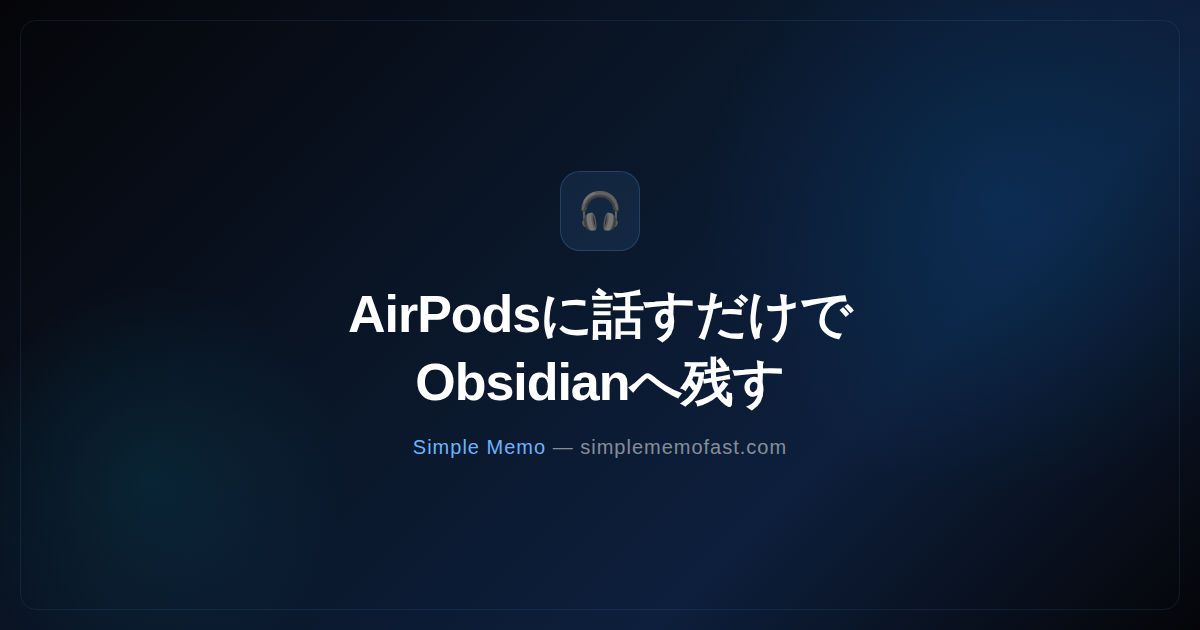
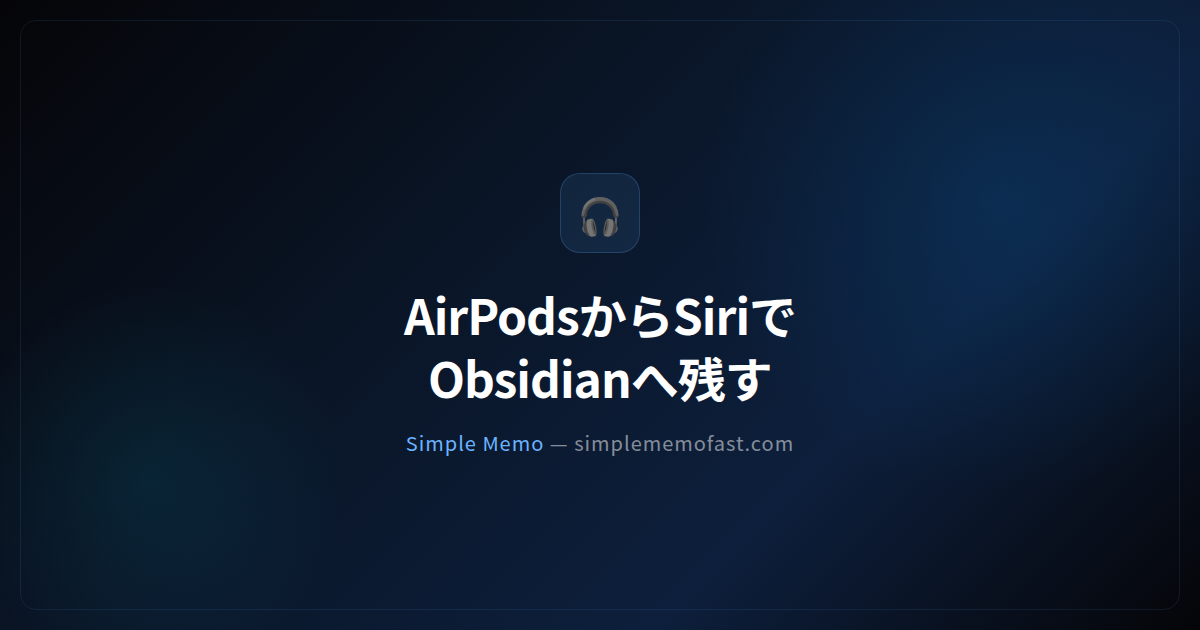
Merge validated PR #1823
Source PR: https://github.com/simplememofast/simplememo/pull/1823
Validated head: 1115b5f22ae24f1f7da040a76402fbab428657f7

diff --git a/siri/index.html b/siri/index.html
@@ -23,12 +23,12 @@
       });
     })();
   </script>
-  <title>AirPodsで音声メモ — スマホを触らずSiriでObsidianへ送る | Obsidian連携シンプルメモ</title>
+  <title>AirPodsで音声メモ — アプリを開かずSiriでObsidianへ送る | Obsidian連携シンプルメモ</title>
   <meta name="description" content="AirPodsからSiriにメモを渡す設定と条件。送信先の認証、保管庫フォルダ、ロック中の実行を確認し、メール受信・Obsidian保存・他端末同期を別々に確かめます。アプリを開く音声ショートカットとの違い、オフライン待機の条件も説明します。">
   <meta name="theme-color" content="#070b14">
 
   <!-- OGP -->
-  <meta property="og:title" content="AirPodsで音声メモ — スマホを触らずSiriでObsidianへ送る | Obsidian連携シンプルメモ">
+  <meta property="og:title" content="AirPodsで音声メモ — アプリを開かずSiriでObsidianへ送る | Obsidian連携シンプルメモ">
   <meta property="og:description" content="AirPodsからSiriにメモを渡す設定と条件。送信先の認証、保管庫フォルダ、ロック中の実行を確認し、メール受信・Obsidian保存・他端末同期を別々に確かめます。アプリを開く音声ショートカットとの違い、オフライン待機の条件も説明します。">
   <meta property="og:type" content="article">
   <meta property="article:published_time" content="2026-08-05T00:00:00+09:00">
@@ -43,7 +43,7 @@
   <!-- Twitter Card -->
   <meta name="twitter:card" content="summary_large_image">
   <meta name="twitter:site" content="@simplememofast">
-  <meta name="twitter:title" content="AirPodsで音声メモ — スマホを触らずSiriでObsidianへ送る | Obsidian連携シンプルメモ">
+  <meta name="twitter:title" content="AirPodsで音声メモ — アプリを開かずSiriでObsidianへ送る | Obsidian連携シンプルメモ">
   <meta name="twitter:description" content="AirPodsからSiriにメモを渡す設定と条件。送信先の認証、保管庫フォルダ、ロック中の実行を確認し、メール受信・Obsidian保存・他端末同期を別々に確かめます。アプリを開く音声ショートカットとの違い、オフライン待機の条件も説明します。">
   <meta name="twitter:image" content="https://simplememofast.com/assets/img/app-icon-256.png">
   <link rel="preconnect" href="https://analytics.ahrefs.com">
@@ -63,13 +63,13 @@
   <script type="application/ld+json">{"@context":"https://schema.org","@type":"BreadcrumbList","itemListElement":[{"@type":"ListItem","position":1,"name":"ホーム","item":"https://simplememofast.com/"},{"@type":"ListItem","position":2,"name":"Siriで音声メモ","item":"https://simplememofast.com/siri/"}]}</script>
 
   <!-- JSON-LD: Article -->
-  <script type="application/ld+json">{"@context":"https://schema.org","@type":"Article","@id":"https://simplememofast.com/siri/#article","inLanguage":"ja","headline":"AirPodsで音声メモ — スマホを触らずSiriでObsidianへ送る","description":"AirPodsからSiriにメモを渡す設定と条件。送信先の認証、保管庫フォルダ、ロック中の実行を確認し、メール受信・Obsidian保存・他端末同期を別々に確かめます。アプリを開く音声ショートカットとの違い、オフライン待機の条件も説明します。","url":"https://simplememofast.com/siri/","datePublished":"2026-08-05","dateModified":"2026-09-30","author":{"@type":"Person","@id":"https://simplememofast.com/about/#person","name":"AI ATAKA","url":"https://simplememofast.com/about/"},"publisher":{"@type":"Organization","name":"Obsidian連携シンプルメモ","@id":"https://simplememofast.com/#organization","url":"https://simplememofast.com/","logo":{"@type":"ImageObject","url":"https://simplememofast.com/assets/img/app-icon-256.png","width":256,"height":256},"alternateName":["Captio式シンプルメモ","シンプルメモ","SimpleMemoFast","Simple Memo","Simple Memo - for Obsidian"]},"image":"https://simplememofast.com/assets/img/app-icon-256.png","mainEntityOfPage":{"@type":"WebPage","@id":"https://simplememofast.com/siri/"}}</script>
+  <script type="application/ld+json">{"@context":"https://schema.org","@type":"Article","@id":"https://simplememofast.com/siri/#article","inLanguage":"ja","headline":"AirPodsで音声メモ — アプリを開かずSiriでObsidianへ送る","description":"AirPodsからSiriにメモを渡す設定と条件。送信先の認証、保管庫フォルダ、ロック中の実行を確認し、メール受信・Obsidian保存・他端末同期を別々に確かめます。アプリを開く音声ショートカットとの違い、オフライン待機の条件も説明します。","url":"https://simplememofast.com/siri/","datePublished":"2026-08-05","dateModified":"2026-10-01","author":{"@type":"Person","@id":"https://simplememofast.com/about/#person","name":"AI ATAKA","url":"https://simplememofast.com/about/"},"publisher":{"@type":"Organization","name":"Obsidian連携シンプルメモ","@id":"https://simplememofast.com/#organization","url":"https://simplememofast.com/","logo":{"@type":"ImageObject","url":"https://simplememofast.com/assets/img/app-icon-256.png","width":256,"height":256},"alternateName":["Captio式シンプルメモ","シンプルメモ","SimpleMemoFast","Simple Memo","Simple Memo - for Obsidian"]},"image":"https://simplememofast.com/assets/img/app-icon-256.png","mainEntityOfPage":{"@type":"WebPage","@id":"https://simplememofast.com/siri/"}}</script>
 
   <!-- JSON-LD: FAQPage -->
   <script type="application/ld+json">{"@context":"https://schema.org","@type":"FAQPage","@id":"https://simplememofast.com/siri/#faq","inLanguage":"ja","mainEntity":[{"@type":"Question","name":"AirPodsのステムを長押ししてもSiriが出ません","acceptedAnswer":{"@type":"Answer","text":"AirPods Pro（第1・第2世代）とAirPods 4（ノイズキャンセリング搭載）は、ステム長押しの初期設定が 「ノイズコントロールの切り替え」 で、Siriは起動しません。長押しすると音は鳴るため、失敗したことに気づきにくいのが厄介な点です。 設定 → Bluetooth → お使いのAirPodsの ⓘ →「長押ししたときの操作」→ Siri に変更してください（左右それぞれに設定があります）。設定を変えずに使いたい場合は「Hey Siri、シンプルメモで残す」と話しかけ、お使いの端末で本文の入力まで進むか確かめてください。"}},{"@type":"Question","name":"Siriが反応しません／「そのためのアプリが見当たりません」と言われます","acceptedAnswer":{"@type":"Answer","text":"ショートカットAppを開き、「シンプルメモ」のショートカット設定で Siriがオン になっているか確認してください（オフだと全フレーズが認識されません）。オンにしたら「Hey Siri、シンプルメモで残す」と話しかけてください。言い回しは 「〜で残す」 から試してください。インストール直後は登録に数分かかることがあるため、アプリを一度起動して少し待ってから試してください。"}},{"@type":"Question","name":"「シンプルメモにメモ」と言ったら違う動きをしました","acceptedAnswer":{"@type":"Answer","text":"「シンプルメモで残す」を試し、Siriが本文を聞く送信操作へ進むか確認してください。別のアプリや操作が選ばれたら、Siriの言語設定とショートカットの登録を確認します。アプリ名だけの発話も、アプリ起動になるか登録された送信操作になるかはSiriの案内を確かめてください。現行版のすべての端末で同じ解釈になるとは限りません。"}},{"@type":"Question","name":"アプリを開かずに、どうやって送信されるのですか？","acceptedAnswer":{"@type":"Answer","text":"Siriの「で残す」はアプリの送信処理へ本文を渡す入口です。送信先メールの認証など初期設定が必要です。通常モードのメール送信とObsidianへの追記は別の経路で、Siriの「送信しました」だけでは保管庫保存を確認できません。選んだフォルダへの直接書き込みが成功することと、別端末へ同期することも分けて確認してください。「声でメモ」はアプリを開く別の入口です。"}},{"@type":"Question","name":"オフライン（圏外）でSiriに話したらどうなりますか？","acceptedAnswer":{"@type":"Answer","text":"Siriから本文がアプリへ渡され、通常モードのメールが待機になった場合は、暗号化したOutboxへ保存して通信復帰後に再送を試みます。Siriの呼び出しや音声認識自体が圏外でも使えるとは限りません。保管庫への直接書き込みには、端末にある対象フォルダと書き込み権限が必要です。メール待機・保管庫保存・他端末同期を別に確認してください。"}},{"@type":"Question","name":"AirPodsだけで完結しますか？画面を見る必要は？","acceptedAnswer":{"@type":"Answer","text":"必要な設定が整った環境では、Siriとの音声のやり取りからメモを渡せます。ロック中のSiri利用設定、選んだショートカット、端末の状態によって、解除や画面操作が必要になる場合があります。アプリを開く「声でメモ」と、本文を送信処理へ渡す「で残す」は別の入口です。すべての端末状態で操作不要と保証せず、最初のメモで受信箱と保管庫の本文を確認してください。"}},{"@type":"Question","name":"「高音質録音」とは何ですか？","acceptedAnswer":{"@type":"Answer","text":"「高音質録音」はアプリ内の音声入力でAirPodsのマイクを使うための設定です。対応するiOS・AirPodsが必要で、設定 → 詳細設定で切り替えます。Siriから本文を渡す送信ショートカットとは別の機能です。ここではマイク切替による開始時間の差を実測していません。"}},{"@type":"Question","name":"Siri送信は無料プランでも使えますか？","acceptedAnswer":{"@type":"Answer","text":"使えます。Siri経由の送信もアプリ内からの送信と同じ扱いで、無料プランの1日の送信枠を共有します。枠を使い切った場合はSiriが上限到達を案内します。音声か画面かは端末の状態によります。"}}]}</script>
 
   <!-- JSON-LD: WebPage with Speakable -->
-  <script type="application/ld+json">{"@context":"https://schema.org","@type":"WebPage","@id":"https://simplememofast.com/siri/#webpage","inLanguage":"ja","name":"AirPodsで音声メモ — スマホを触らずSiriでObsidianへ送る | Obsidian連携シンプルメモ","url":"https://simplememofast.com/siri/","isPartOf":{"@id":"https://simplememofast.com/#website"}}</script>
+  <script type="application/ld+json">{"@context":"https://schema.org","@type":"WebPage","@id":"https://simplememofast.com/siri/#webpage","inLanguage":"ja","name":"AirPodsで音声メモ — アプリを開かずSiriでObsidianへ送る | Obsidian連携シンプルメモ","url":"https://simplememofast.com/siri/","isPartOf":{"@id":"https://simplememofast.com/#website"}}</script>
   <link rel="stylesheet" href="/assets/css/style.min.css?v=aa4747a0f6">
   <link rel="preload" href="/assets/fonts/NotoSansJP-Regular-subset.woff2?v=a4c50a515e" as="font" type="font/woff2" crossorigin>
   <link rel="preload" href="/assets/fonts/NotoSansJP-Bold-subset.woff2?v=7c9688959a" as="font" type="font/woff2" crossorigin>

diff --git a/hands-free/index.html b/hands-free/index.html
@@ -23,12 +23,12 @@
       });
     })();
   </script>
-  <title>ハンズフリー音声メモ — 移動中も開くだけで自動録音・圏外でも端末に残る | Obsidian連携シンプルメモ</title>
+  <title>ハンズフリー音声メモ — 移動中も、設定すれば開くだけで自動録音・圏外でも端末に残る | Obsidian連携シンプルメモ</title>
   <meta name="description" content="設定すれば、開くだけで音声入力が自動起動。高精度なオンデバイス音声で話すだけ、下書きは端末内に自動保存、Obsidianにはローカル保存で、圏外でも端末に残ります。通勤・サイクリング・ドライブの“手がふさがる移動中”に最適なハンズフリー音声メモ（安全運用の注意つき）。">
   <meta name="theme-color" content="#070b14">
 
   <!-- OGP -->
-  <meta property="og:title" content="ハンズフリー音声メモ — 移動中も開くだけで自動録音・圏外でも端末に残る | Obsidian連携シンプルメモ">
+  <meta property="og:title" content="ハンズフリー音声メモ — 移動中も、設定すれば開くだけで自動録音・圏外でも端末に残る | Obsidian連携シンプルメモ">
   <meta property="og:description" content="設定しておけば、開くだけで自動録音、高精度オンデバイス音声、下書き自動保存、Obsidianローカル保存で圏外でも端末に残る。手がふさがる移動中のハンズフリー音声メモ。">
   <meta property="og:type" content="article">
   <meta property="article:published_time" content="2026-06-04T00:00:00+09:00">
@@ -43,7 +43,7 @@
   <!-- Twitter Card -->
   <meta name="twitter:card" content="summary_large_image">
   <meta name="twitter:site" content="@simplememofast">
-  <meta name="twitter:title" content="ハンズフリー音声メモ — 開くだけで自動録音・圏外でも端末に残る | Obsidian連携シンプルメモ">
+  <meta name="twitter:title" content="ハンズフリー音声メモ — 設定すれば開くだけで自動録音・圏外でも端末に残る | Obsidian連携シンプルメモ">
   <meta name="twitter:description" content="設定しておけば、開くだけで自動録音、高精度オンデバイス音声、下書き自動保存、Obsidianローカル保存で圏外でも端末に残る。移動中のハンズフリー音声メモ。">
   <meta name="twitter:image" content="https://simplememofast.com/assets/img/og/hands-free.png">
   <link rel="preconnect" href="https://analytics.ahrefs.com">
@@ -72,14 +72,14 @@
   </script>
 
   <!-- JSON-LD: Article -->
-  <script type="application/ld+json">{"@context":"https://schema.org","@type":"Article","@id":"https://simplememofast.com/hands-free/#article","inLanguage":"ja","headline":"ハンズフリー音声メモ — 移動中も開くだけで自動録音・圏外でも端末に残る","description":"設定すれば、開くだけで音声入力が自動起動。高精度なオンデバイス音声で話すだけ、下書きは端末内に自動保存、Obsidianにはローカル保存で、圏外でも端末に残ります。通勤・サイクリング・ドライブの移動中に最適なハンズフリー音声メモ。","url":"https://simplememofast.com/hands-free/","datePublished":"2026-06-04","dateModified":"2026-10-01","author":{"@type":"Person","@id":"https://simplememofast.com/about/#person","name":"AI ATAKA","url":"https://simplememofast.com/about/"},"publisher":{"@type":"Organization","name":"Obsidian連携シンプルメモ","@id":"https://simplememofast.com/#organization","url":"https://simplememofast.com/","logo":{"@type":"ImageObject","url":"https://simplememofast.com/assets/img/app-icon-256.png","width":256,"height":256},"alternateName":["Captio式シンプルメモ","シンプルメモ","SimpleMemoFast","Simple Memo","Simple Memo - for Obsidian"]},"image":"https://simplememofast.com/assets/img/og/hands-free.png","mainEntityOfPage":{"@type":"WebPage","@id":"https://simplememofast.com/hands-free/"}}</script>
+  <script type="application/ld+json">{"@context":"https://schema.org","@type":"Article","@id":"https://simplememofast.com/hands-free/#article","inLanguage":"ja","headline":"ハンズフリー音声メモ — 移動中も、設定すれば開くだけで自動録音・圏外でも端末に残る","description":"設定すれば、開くだけで音声入力が自動起動。高精度なオンデバイス音声で話すだけ、下書きは端末内に自動保存、Obsidianにはローカル保存で、圏外でも端末に残ります。通勤・サイクリング・ドライブの移動中に最適なハンズフリー音声メモ。","url":"https://simplememofast.com/hands-free/","datePublished":"2026-06-04","dateModified":"2026-10-01","author":{"@type":"Person","@id":"https://simplememofast.com/about/#person","name":"AI ATAKA","url":"https://simplememofast.com/about/"},"publisher":{"@type":"Organization","name":"Obsidian連携シンプルメモ","@id":"https://simplememofast.com/#organization","url":"https://simplememofast.com/","logo":{"@type":"ImageObject","url":"https://simplememofast.com/assets/img/app-icon-256.png","width":256,"height":256},"alternateName":["Captio式シンプルメモ","シンプルメモ","SimpleMemoFast","Simple Memo","Simple Memo - for Obsidian"]},"image":"https://simplememofast.com/assets/img/og/hands-free.png","mainEntityOfPage":{"@type":"WebPage","@id":"https://simplememofast.com/hands-free/"}}</script>
 
   <!-- JSON-LD: FAQPage -->
   <script type="application/ld+json">{"@context":"https://schema.org","@type":"FAQPage","@id":"https://simplememofast.com/hands-free/#faq","inLanguage":"ja","mainEntity":[{"@type":"Question","name":"運転中や自転車の走行中に使ってもいいですか？","acceptedAnswer":{"@type":"Answer","text":"運転中・走行中にスマホを手に持つ・通話する・画面を注視する行為は日本の道路交通法で禁止されており危険です（自転車も2024年11月から「ながらスマホ」が罰則対象）。アプリで録音して送るには、開くときと送るときに画面の操作が要ります。安全のため、①安全な場所に停車してから、②またはハンズフリーでSiriなど声だけの操作に限る（画面を見ない・操作しない。解除や画面操作を求められたら停車してから）、③同乗者が操作、を必ず守ってください。前方への注意が最優先です。"}},{"@type":"Question","name":"電波がない場所（トンネル・山・地下）でも使えますか？","acceptedAnswer":{"@type":"Answer","text":"使えます。圏外でも、話した内容は(1)端末内の下書きとして自動保存されます。送信すると、(2)メールはオフラインキュー（Outbox）に暗号化して貯まり復帰時に自動送信、(3)Obsidian連携をフォルダ直書きにしていればその場でローカルのノートに追記されます。音声認識も初回に言語モデルを取得しておけばオフラインで動作します。"}},{"@type":"Question","name":"開くだけで録音が始まるのはどう設定しますか？","acceptedAnswer":{"@type":"Answer","text":"設定の詳細設定にある「起動時に音声入力を自動オン」をオンにします。以降はアプリを開くと録音が始まるので、マイクを探してタップする必要はありません（iOS 26以降の対応端末。開始の表示を確かめてから話します）。"}},{"@type":"Question","name":"音声の精度は？追加料金はかかりますか？","acceptedAnswer":{"@type":"Answer","text":"Appleの最新オンデバイス音声認識（iOS 26）を使うため精度が高く、文字起こしは端末内で完結します。音声もテキストも外部に送らず、従量課金の外部APIも使わないため追加料金はかかりません。"}},{"@type":"Question","name":"言い間違えたり途中で中断しても大丈夫ですか？","acceptedAnswer":{"@type":"Answer","text":"大丈夫です。入力中の内容は話すそばから端末内にAES-GCM暗号化で自動保存されるため、アプリが閉じても・落ちても、次に開けば続きから編集できます。送信すると下書きは破棄されます。"}}]}</script>
 
   <!-- JSON-LD: WebPage with Speakable -->
   <script type="application/ld+json">
-  {"@context":"https://schema.org","@type":"WebPage","@id":"https://simplememofast.com/hands-free/#webpage","inLanguage":"ja","name":"ハンズフリー音声メモ — 移動中も開くだけで自動録音・圏外でも端末に残る | Obsidian連携シンプルメモ","url":"https://simplememofast.com/hands-free/","isPartOf":{"@id":"https://simplememofast.com/#website"}}
+  {"@context":"https://schema.org","@type":"WebPage","@id":"https://simplememofast.com/hands-free/#webpage","inLanguage":"ja","name":"ハンズフリー音声メモ — 移動中も、設定すれば開くだけで自動録音・圏外でも端末に残る | Obsidian連携シンプルメモ","url":"https://simplememofast.com/hands-free/","isPartOf":{"@id":"https://simplememofast.com/#website"}}
   </script>
   <link rel="stylesheet" href="/assets/css/style.min.css?v=aa4747a0f6">
   <link rel="preload" href="/assets/fonts/NotoSansJP-Regular-subset.woff2?v=a4c50a515e" as="font" type="font/woff2" crossorigin>
@@ -495,7 +495,7 @@
 
         </h2>
         <div class="internal-links">
-          <a href="/siri/"><span lang="ja">AirPodsから、スマホを触らず送る</span></a>
+          <a href="/siri/"><span lang="ja">AirPodsから、アプリを開かず送る</span></a>
           <a href="/fastest-voice-memo/"><span lang="ja">アクションボタンで音声メモ（おすすめの使い方）</span></a>
           <a href="/voice-input/"><span lang="ja">音声入力（音声自動入力）</span></a>
           <a href="/obsidian/"><span lang="ja">Obsidian連携</span></a>

diff --git a/obsidian/airpods/index.html b/obsidian/airpods/index.html
@@ -23,12 +23,12 @@
       });
     })();
   </script>
-  <title>AirPodsに話すだけでObsidianへ残す — ハンズフリー実践ガイド【2026】 | Obsidian連携シンプルメモ</title>
+  <title>AirPodsからSiriでObsidianへ残す — ハンズフリー実践ガイド【2026】 | Obsidian連携シンプルメモ</title>
   <meta name="description" content="AirPodsから「Hey Siri、シンプルメモで残す」と話しかけ、聞き返されたら本文を答えると、メールとObsidianのデイリーノートへメモを渡せます。設定3ステップ・実機スクリーンショット・AirPods Pro/4のステム設定・ロック中の条件など、つまずきやすい点までまとめた実践ガイドです。">
   <meta name="theme-color" content="#070b14">
 
   <!-- OGP -->
-  <meta property="og:title" content="AirPodsに話すだけでObsidianへ残す — ハンズフリー実践ガイド【2026】 | Obsidian連携シンプルメモ">
+  <meta property="og:title" content="AirPodsからSiriでObsidianへ残す — ハンズフリー実践ガイド【2026】 | Obsidian連携シンプルメモ">
   <meta property="og:description" content="AirPodsから「シンプルメモで残す」と話しかけて本文を答えると、メールとObsidianのデイリーノートへ。設定とロック中の条件を実機画面つきで説明する実践ガイド。">
   <meta property="og:type" content="article">
   <meta property="article:published_time" content="2026-08-20T00:00:00+09:00">
@@ -42,7 +42,7 @@
   <!-- Twitter Card -->
   <meta name="twitter:card" content="summary_large_image">
   <meta name="twitter:site" content="@simplememofast">
-  <meta name="twitter:title" content="AirPodsに話すだけでObsidianへ残す — ハンズフリー実践ガイド【2026】">
+  <meta name="twitter:title" content="AirPodsからSiriでObsidianへ残す — ハンズフリー実践ガイド【2026】">
   <meta name="twitter:description" content="AirPodsから「シンプルメモで残す」と話しかけて本文を答えると、メールとObsidianのデイリーノートへ。設定とロック中の条件つき。">
   <meta name="twitter:image" content="https://simplememofast.com/assets/img/og/obsidian-airpods.png">
   <link rel="preconnect" href="https://analytics.ahrefs.com">
@@ -69,11 +69,11 @@
   </script>
 
   <!-- JSON-LD: Article -->
-  <script type="application/ld+json">{"@context":"https://schema.org","@type":"Article","@id":"https://simplememofast.com/obsidian/airpods/#article","inLanguage":"ja","headline":"AirPodsに話すだけでObsidianへ残す — ハンズフリー実践ガイド","description":"AirPodsから「Hey Siri、シンプルメモで残す」と話しかけ、聞き返されたら本文を答えて、メモをメールとObsidianのデイリーノートへ渡す手順を、実機スクリーンショットと制約（ステム長押しの初期設定・合言葉の言い回し・2ターンの会話仕様・ロック中の条件）まで含めて解説する。","url":"https://simplememofast.com/obsidian/airpods/","datePublished":"2026-08-20","dateModified":"2026-09-30","author":{"@type":"Person","@id":"https://simplememofast.com/about/#person","name":"AI ATAKA","url":"https://simplememofast.com/about/"},"publisher":{"@type":"Organization","name":"Obsidian連携シンプルメモ","@id":"https://simplememofast.com/#organization","url":"https://simplememofast.com/","logo":{"@type":"ImageObject","url":"https://simplememofast.com/assets/img/app-icon-256.png","width":256,"height":256},"alternateName":["Captio式シンプルメモ","シンプルメモ","SimpleMemoFast","Simple Memo","Simple Memo - for Obsidian"]},"image":"https://simplememofast.com/assets/img/og/obsidian-airpods.png","mainEntityOfPage":{"@type":"WebPage","@id":"https://simplememofast.com/obsidian/airpods/"}}</script>
+  <script type="application/ld+json">{"@context":"https://schema.org","@type":"Article","@id":"https://simplememofast.com/obsidian/airpods/#article","inLanguage":"ja","headline":"AirPodsからSiriでObsidianへ残す — ハンズフリー実践ガイド","description":"AirPodsから「Hey Siri、シンプルメモで残す」と話しかけ、聞き返されたら本文を答えて、メモをメールとObsidianのデイリーノートへ渡す手順を、実機スクリーンショットと制約（ステム長押しの初期設定・合言葉の言い回し・2ターンの会話仕様・ロック中の条件）まで含めて解説する。","url":"https://simplememofast.com/obsidian/airpods/","datePublished":"2026-08-20","dateModified":"2026-10-01","author":{"@type":"Person","@id":"https://simplememofast.com/about/#person","name":"AI ATAKA","url":"https://simplememofast.com/about/"},"publisher":{"@type":"Organization","name":"Obsidian連携シンプルメモ","@id":"https://simplememofast.com/#organization","url":"https://simplememofast.com/","logo":{"@type":"ImageObject","url":"https://simplememofast.com/assets/img/app-icon-256.png","width":256,"height":256},"alternateName":["Captio式シンプルメモ","シンプルメモ","SimpleMemoFast","Simple Memo","Simple Memo - for Obsidian"]},"image":"https://simplememofast.com/assets/img/og/obsidian-airpods.png","mainEntityOfPage":{"@type":"WebPage","@id":"https://simplememofast.com/obsidian/airpods/"}}</script>
 
   <!-- JSON-LD: WebPage with Speakable -->
   <script type="application/ld+json">
-  {"@context":"https://schema.org","@type":"WebPage","@id":"https://simplememofast.com/obsidian/airpods/#webpage","inLanguage":"ja","name":"AirPodsに話すだけでObsidianへ残す — ハンズフリー実践ガイド【2026】 | Obsidian連携シンプルメモ","url":"https://simplememofast.com/obsidian/airpods/","isPartOf":{"@id":"https://simplememofast.com/#website"}}
+  {"@context":"https://schema.org","@type":"WebPage","@id":"https://simplememofast.com/obsidian/airpods/#webpage","inLanguage":"ja","name":"AirPodsからSiriでObsidianへ残す — ハンズフリー実践ガイド【2026】 | Obsidian連携シンプルメモ","url":"https://simplememofast.com/obsidian/airpods/","isPartOf":{"@id":"https://simplememofast.com/#website"}}
   </script>
   <link rel="stylesheet" href="/assets/css/style.min.css?v=aa4747a0f6">
   <link rel="preload" href="/assets/fonts/NotoSansJP-Regular-subset.woff2?v=a4c50a515e" as="font" type="font/woff2" crossorigin>
@@ -178,7 +178,7 @@
       <!-- Hero -->
       <div class="lp-hero">
         <div class="lp-hero__label">AirPods × Obsidian — 実践</div>
-        <h1 class="lp-hero__title">AirPodsに話すだけで、<br>Obsidianへ残す</h1>
+        <h1 class="lp-hero__title">AirPodsからSiriで、<br>Obsidianへ残す</h1>
         <p class="lp-hero__sub">
           歩いているとき、家事の途中、iPhoneはポケットやカバンの中——その状態のまま、AirPodsに<strong>「Hey Siri、シンプルメモで残す」</strong>と話しかけ、聞き返されたら本文を答えると、話した内容をメールと<strong>Obsidianのデイリーノート</strong>へ渡せます。ロック中の設定や端末の状態によっては、解除や画面操作を求められることがあります。このページは、その状態を作るまでの設定と、実際につまずきやすい点（ステム長押しの初期設定・合言葉の言い回し）を、実機のスクリーンショットで説明する実践ガイドです。
         </p>

diff --git a/en/hands-free/index.html b/en/hands-free/index.html
@@ -24,11 +24,11 @@
     });
   })();
 </script>
-<title>On the move — just open and speak.</title>
+<title>On the move — with auto-start on, just open and speak.</title>
 <meta content="With auto-start on, opening the app starts recording. High-accuracy on-device voice, drafts auto-saved on device, and local Obsidian save that survives with no signal." name="description"/>
 <meta content="#070b14" name="theme-color"/>
 <!-- OGP -->
-<meta content="On the move — just open and speak." property="og:title"/>
+<meta content="On the move — with auto-start on, just open and speak." property="og:title"/>
 <meta content="With auto-start on, opening the app starts recording. High-accuracy on-device voice, drafts auto-saved on device, and local Obsidian save that survives with no signal." property="og:description"/>
 <meta content="article" property="og:type"/>
 <meta content="2026-06-04T00:00:00+09:00" property="article:published_time"/>
@@ -42,7 +42,7 @@
 <!-- Twitter Card -->
 <meta content="summary_large_image" name="twitter:card"/>
 <meta content="@simplememofast" name="twitter:site"/>
-<meta content="On the move — just open and speak." name="twitter:title"/>
+<meta content="On the move — with auto-start on, just open and speak." name="twitter:title"/>
 <meta content="With auto-start on, opening the app starts recording. High-accuracy on-device voice, drafts auto-saved on device, and local Obsidian save that survives with no signal." name="twitter:description"/>
 <meta content="https://simplememofast.com/assets/img/og/hands-free.png" name="twitter:image"/>
 <link href="https://analytics.ahrefs.com" rel="preconnect"/>
@@ -56,7 +56,7 @@
 <!-- JSON-LD: BreadcrumbList -->
 <script type="application/ld+json">{"@context":"https://schema.org","@type":"BreadcrumbList","itemListElement":[{"@type":"ListItem","position":1,"name":"Home","item":"https://simplememofast.com/en/"},{"@type":"ListItem","position":2,"name":"On the move — just open and speak.","item":"https://simplememofast.com/en/hands-free/"}]}</script>
 <!-- JSON-LD: Article -->
-<script type="application/ld+json">{"@context":"https://schema.org","@type":"Article","@id":"https://simplememofast.com/en/hands-free/#article","inLanguage":"en","headline":"Hands-Free Voice Memo — Auto-start on open, kept on the device offline | Simple Memo","description":"With auto-start on, opening the app starts recording. High-accuracy on-device voice, drafts auto-saved on device, and local Obsidian save that survives with no signal. Ideal hands-free capture for commuting, cycling, and driving (with safety guidance).","url":"https://simplememofast.com/en/hands-free/","datePublished":"2026-06-04","dateModified":"2026-09-30","author":{"@type":"Person","@id":"https://simplememofast.com/about/#person","name":"AI ATAKA","url":"https://simplememofast.com/about/"},"publisher":{"@type":"Organization","name":"Simple Memo - for Obsidian","@id":"https://simplememofast.com/#organization","url":"https://simplememofast.com/","logo":{"@type":"ImageObject","url":"https://simplememofast.com/assets/img/app-icon-256.png","width":256,"height":256},"alternateName":["Simple Memo - for Obsidian","シンプルメモ","SimpleMemoFast","Simple Memo","Obsidian連携シンプルメモ"]},"image":"https://simplememofast.com/assets/img/og/hands-free.png","mainEntityOfPage":{"@type":"WebPage","@id":"https://simplememofast.com/en/hands-free/"}}</script>
+<script type="application/ld+json">{"@context":"https://schema.org","@type":"Article","@id":"https://simplememofast.com/en/hands-free/#article","inLanguage":"en","headline":"Hands-Free Voice Memo — Auto-start on open, kept on the device offline | Simple Memo","description":"With auto-start on, opening the app starts recording. High-accuracy on-device voice, drafts auto-saved on device, and local Obsidian save that survives with no signal. Ideal hands-free capture for commuting, cycling, and driving (with safety guidance).","url":"https://simplememofast.com/en/hands-free/","datePublished":"2026-06-04","dateModified":"2026-10-01","author":{"@type":"Person","@id":"https://simplememofast.com/about/#person","name":"AI ATAKA","url":"https://simplememofast.com/about/"},"publisher":{"@type":"Organization","name":"Simple Memo - for Obsidian","@id":"https://simplememofast.com/#organization","url":"https://simplememofast.com/","logo":{"@type":"ImageObject","url":"https://simplememofast.com/assets/img/app-icon-256.png","width":256,"height":256},"alternateName":["Simple Memo - for Obsidian","シンプルメモ","SimpleMemoFast","Simple Memo","Obsidian連携シンプルメモ"]},"image":"https://simplememofast.com/assets/img/og/hands-free.png","mainEntityOfPage":{"@type":"WebPage","@id":"https://simplememofast.com/en/hands-free/"}}</script>
 <!-- JSON-LD: FAQPage -->
 
 <!-- JSON-LD: WebPage with Speakable -->

diff --git a/index.html b/index.html
@@ -323,7 +323,7 @@
     "url": "https://simplememofast.com/",
     "inLanguage": "ja",
     "isPartOf": { "@id": "https://simplememofast.com/#website" },
-    "dateModified": "2026-09-30"
+    "dateModified": "2026-10-01"
   }
   </script>
 
@@ -1409,7 +1409,7 @@ body{overflow-x:clip}
           🚲🚗 移動中もハンズフリー（圏外OK）→
         </a>
         <a href="/siri/" style="display:inline-flex;align-items:center;min-height:48px;margin-left:.6rem;padding:.7rem 1.2rem;border:1px solid rgba(34,211,238,.4);color:#22d3ee;text-decoration:none;font-weight:700;font-size:.9rem;border-radius:24px;max-width:calc(100% - .6rem);">
-          🎧 AirPodsから、スマホを触らず送る →
+          🎧 AirPodsから、アプリを開かず送る →
         </a>
         <a href="/fastest-voice-memo/" style="display:inline-flex;align-items:center;min-height:48px;margin-left:.6rem;padding:.7rem 1.2rem;border:1px solid rgba(34,211,238,.4);color:#22d3ee;text-decoration:none;font-weight:700;font-size:.9rem;border-radius:24px;max-width:calc(100% - .6rem);">
           ⚡ アクションボタンで音声メモ（おすすめの使い方）→

diff --git a/scripts/generate-og-batch.js b/scripts/generate-og-batch.js
@@ -43,7 +43,7 @@ const IMAGES = [
   { file: 'obsidian-sync.png', title: 'Obsidianの同期方法\niCloud/Sync/Git/Syncthing', icon: '🔄' },
   { file: 'obsidian-sync-icloud.png', title: 'ObsidianをiCloudで同期\n設定手順とつまずきどころ', icon: '☁' },
   { file: 'obsidian-sync-official.png', title: 'Obsidian SyncのStandard/Plus\n必要なのはどちらか', icon: '🔄' },
-  { file: 'obsidian-airpods.png', title: 'AirPodsに話すだけで\nObsidianへ残す', icon: '🎧' },
+  { file: 'obsidian-airpods.png', title: 'AirPodsからSiriで\nObsidianへ残す', icon: '🎧' },
   { file: 'blog-obsidian-voice-fastest-route.png', title: 'Obsidianに音声で挿す\n最速の経路', icon: '🎙' },
   { file: 'data-voice-shift.png', title: '「音声シフト」定点調査\nメモは書くものから話すものへ', icon: '📊' },
 ];

diff --git a/apple-watch/index.html b/apple-watch/index.html
@@ -345,7 +345,7 @@
           <a href="/methods/second-brain/"><span>セカンドブレイン</span></a>
           <a href="/faq"><span>FAQ</span></a>
           <a href="/voice-input/">音声入力でメモを取る</a>
-          <a href="/obsidian/airpods/"><span>AirPodsに話すだけでObsidianへ</span></a>
+          <a href="/obsidian/airpods/"><span>AirPodsからSiriでObsidianへ</span></a>
           <a href="/blog/instant-capture-workflow"><span>即キャプチャワークフロー</span></a>
         </div>
       </section>
